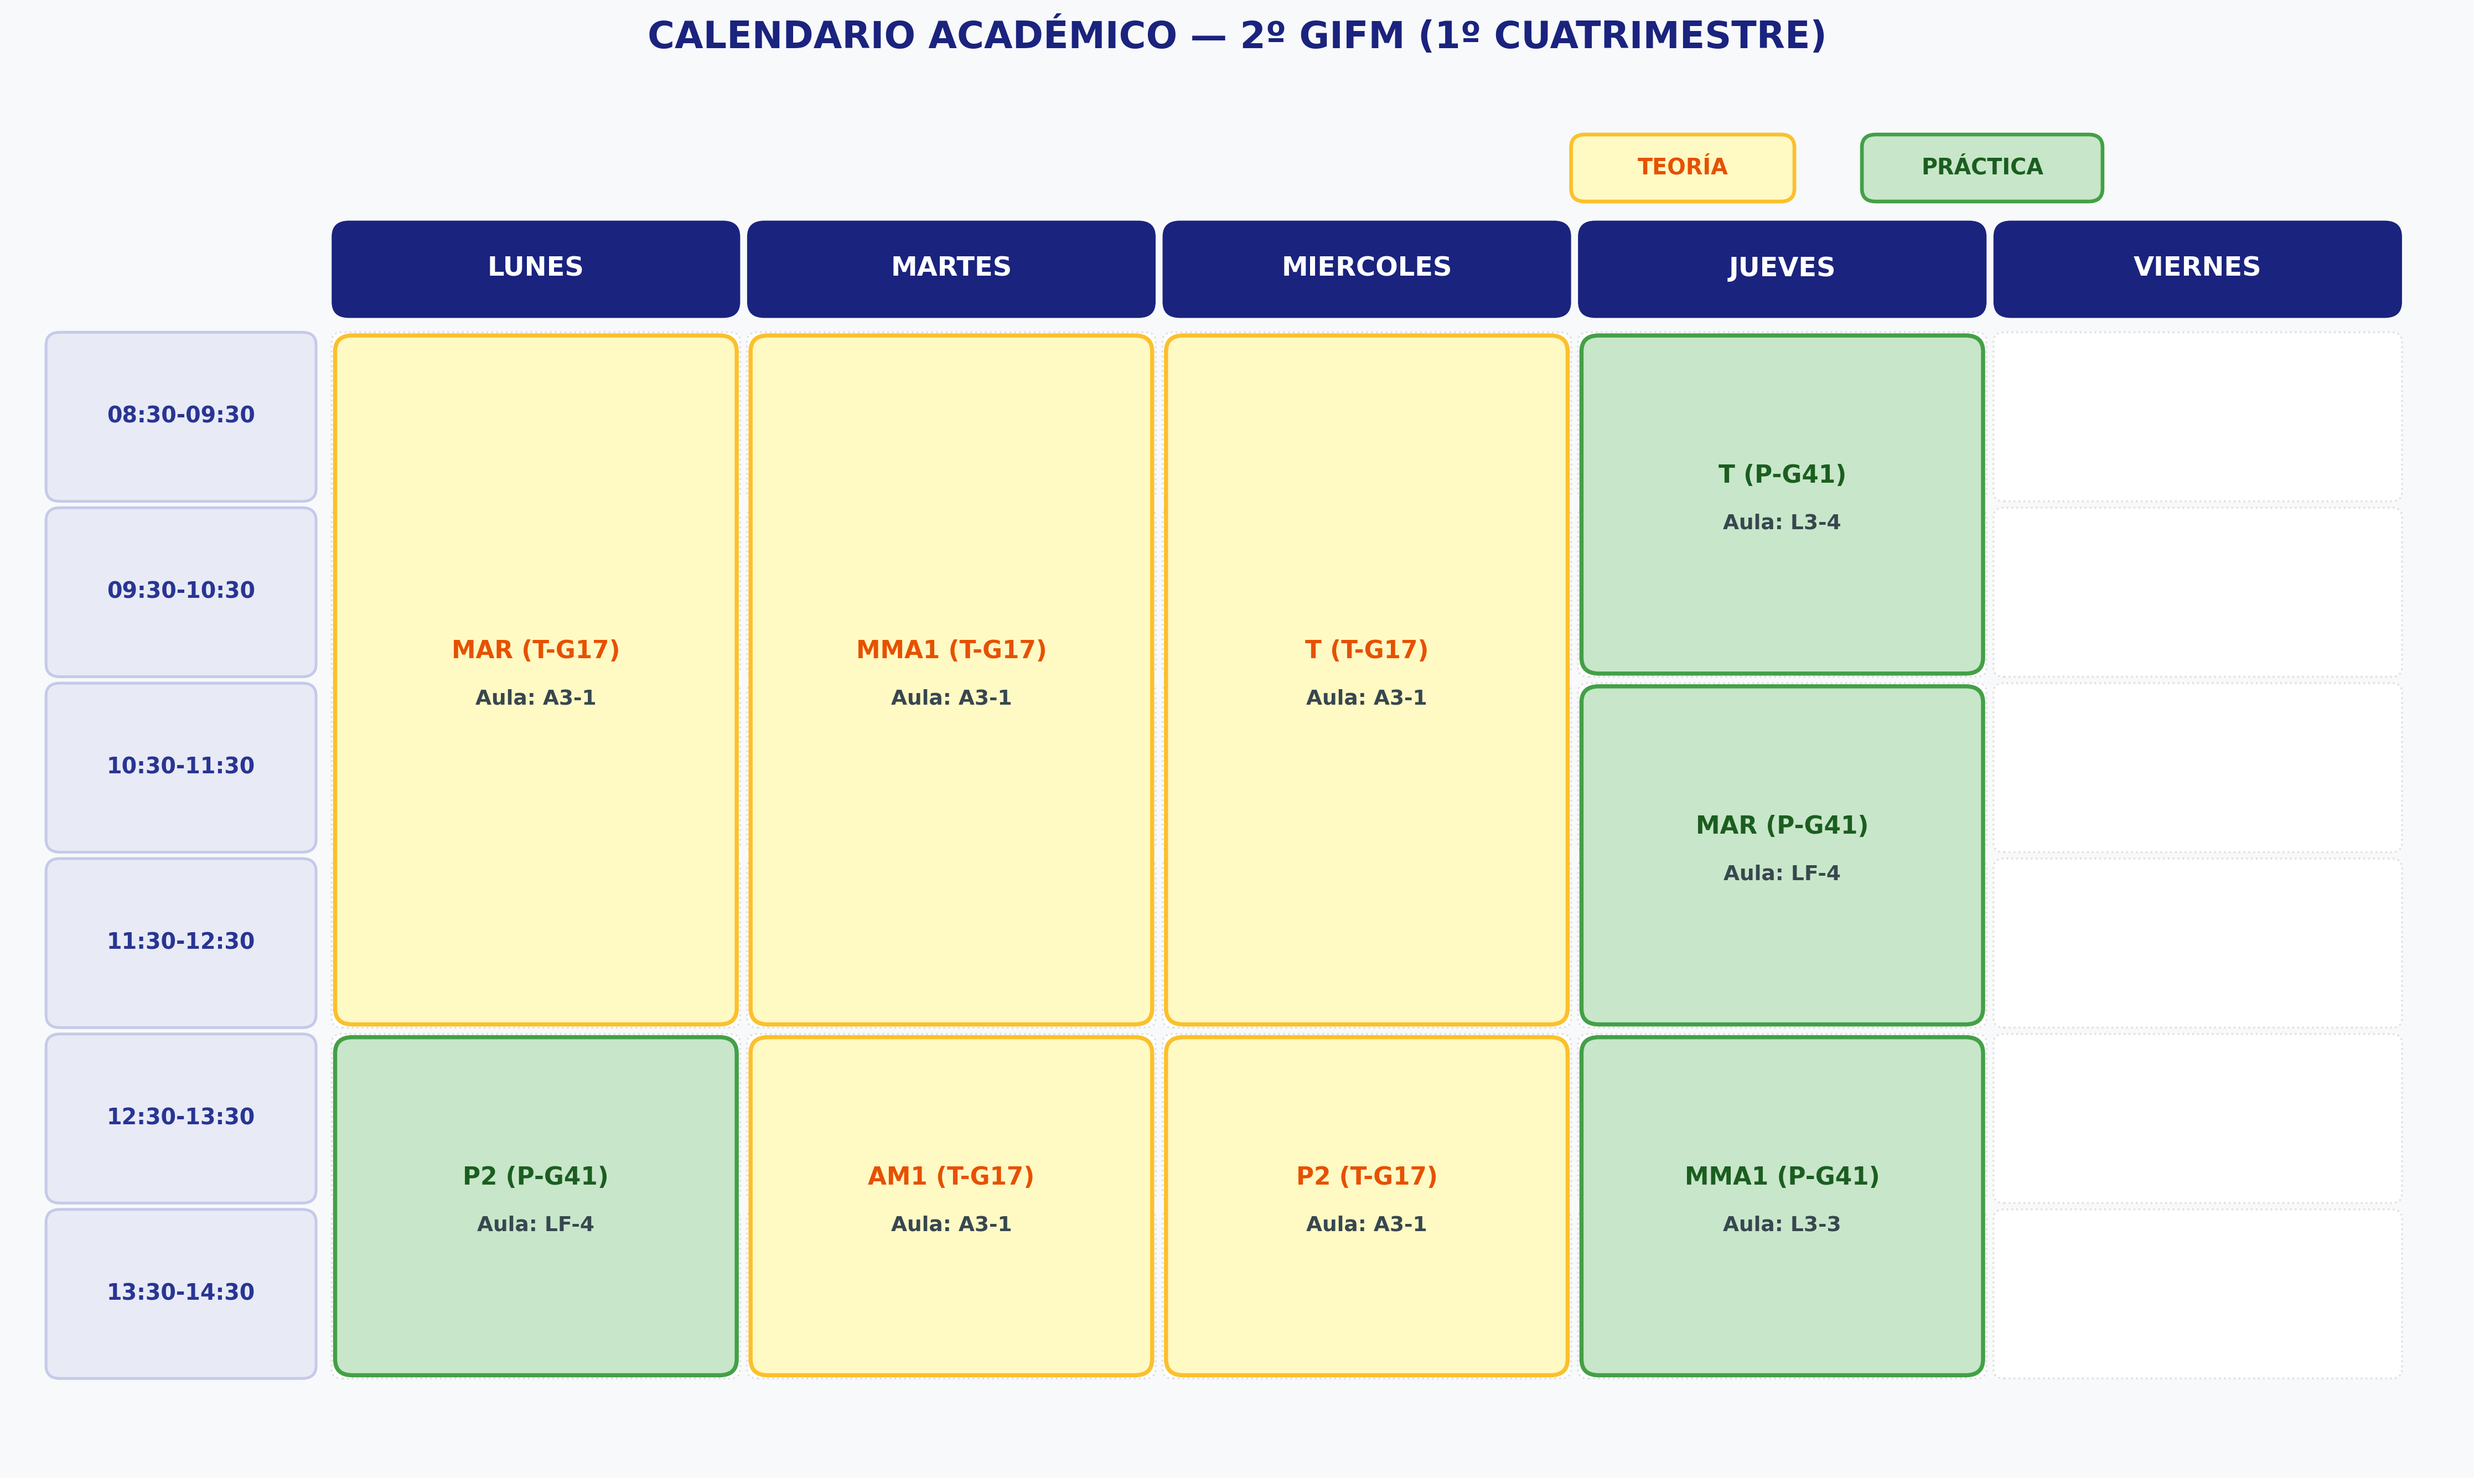
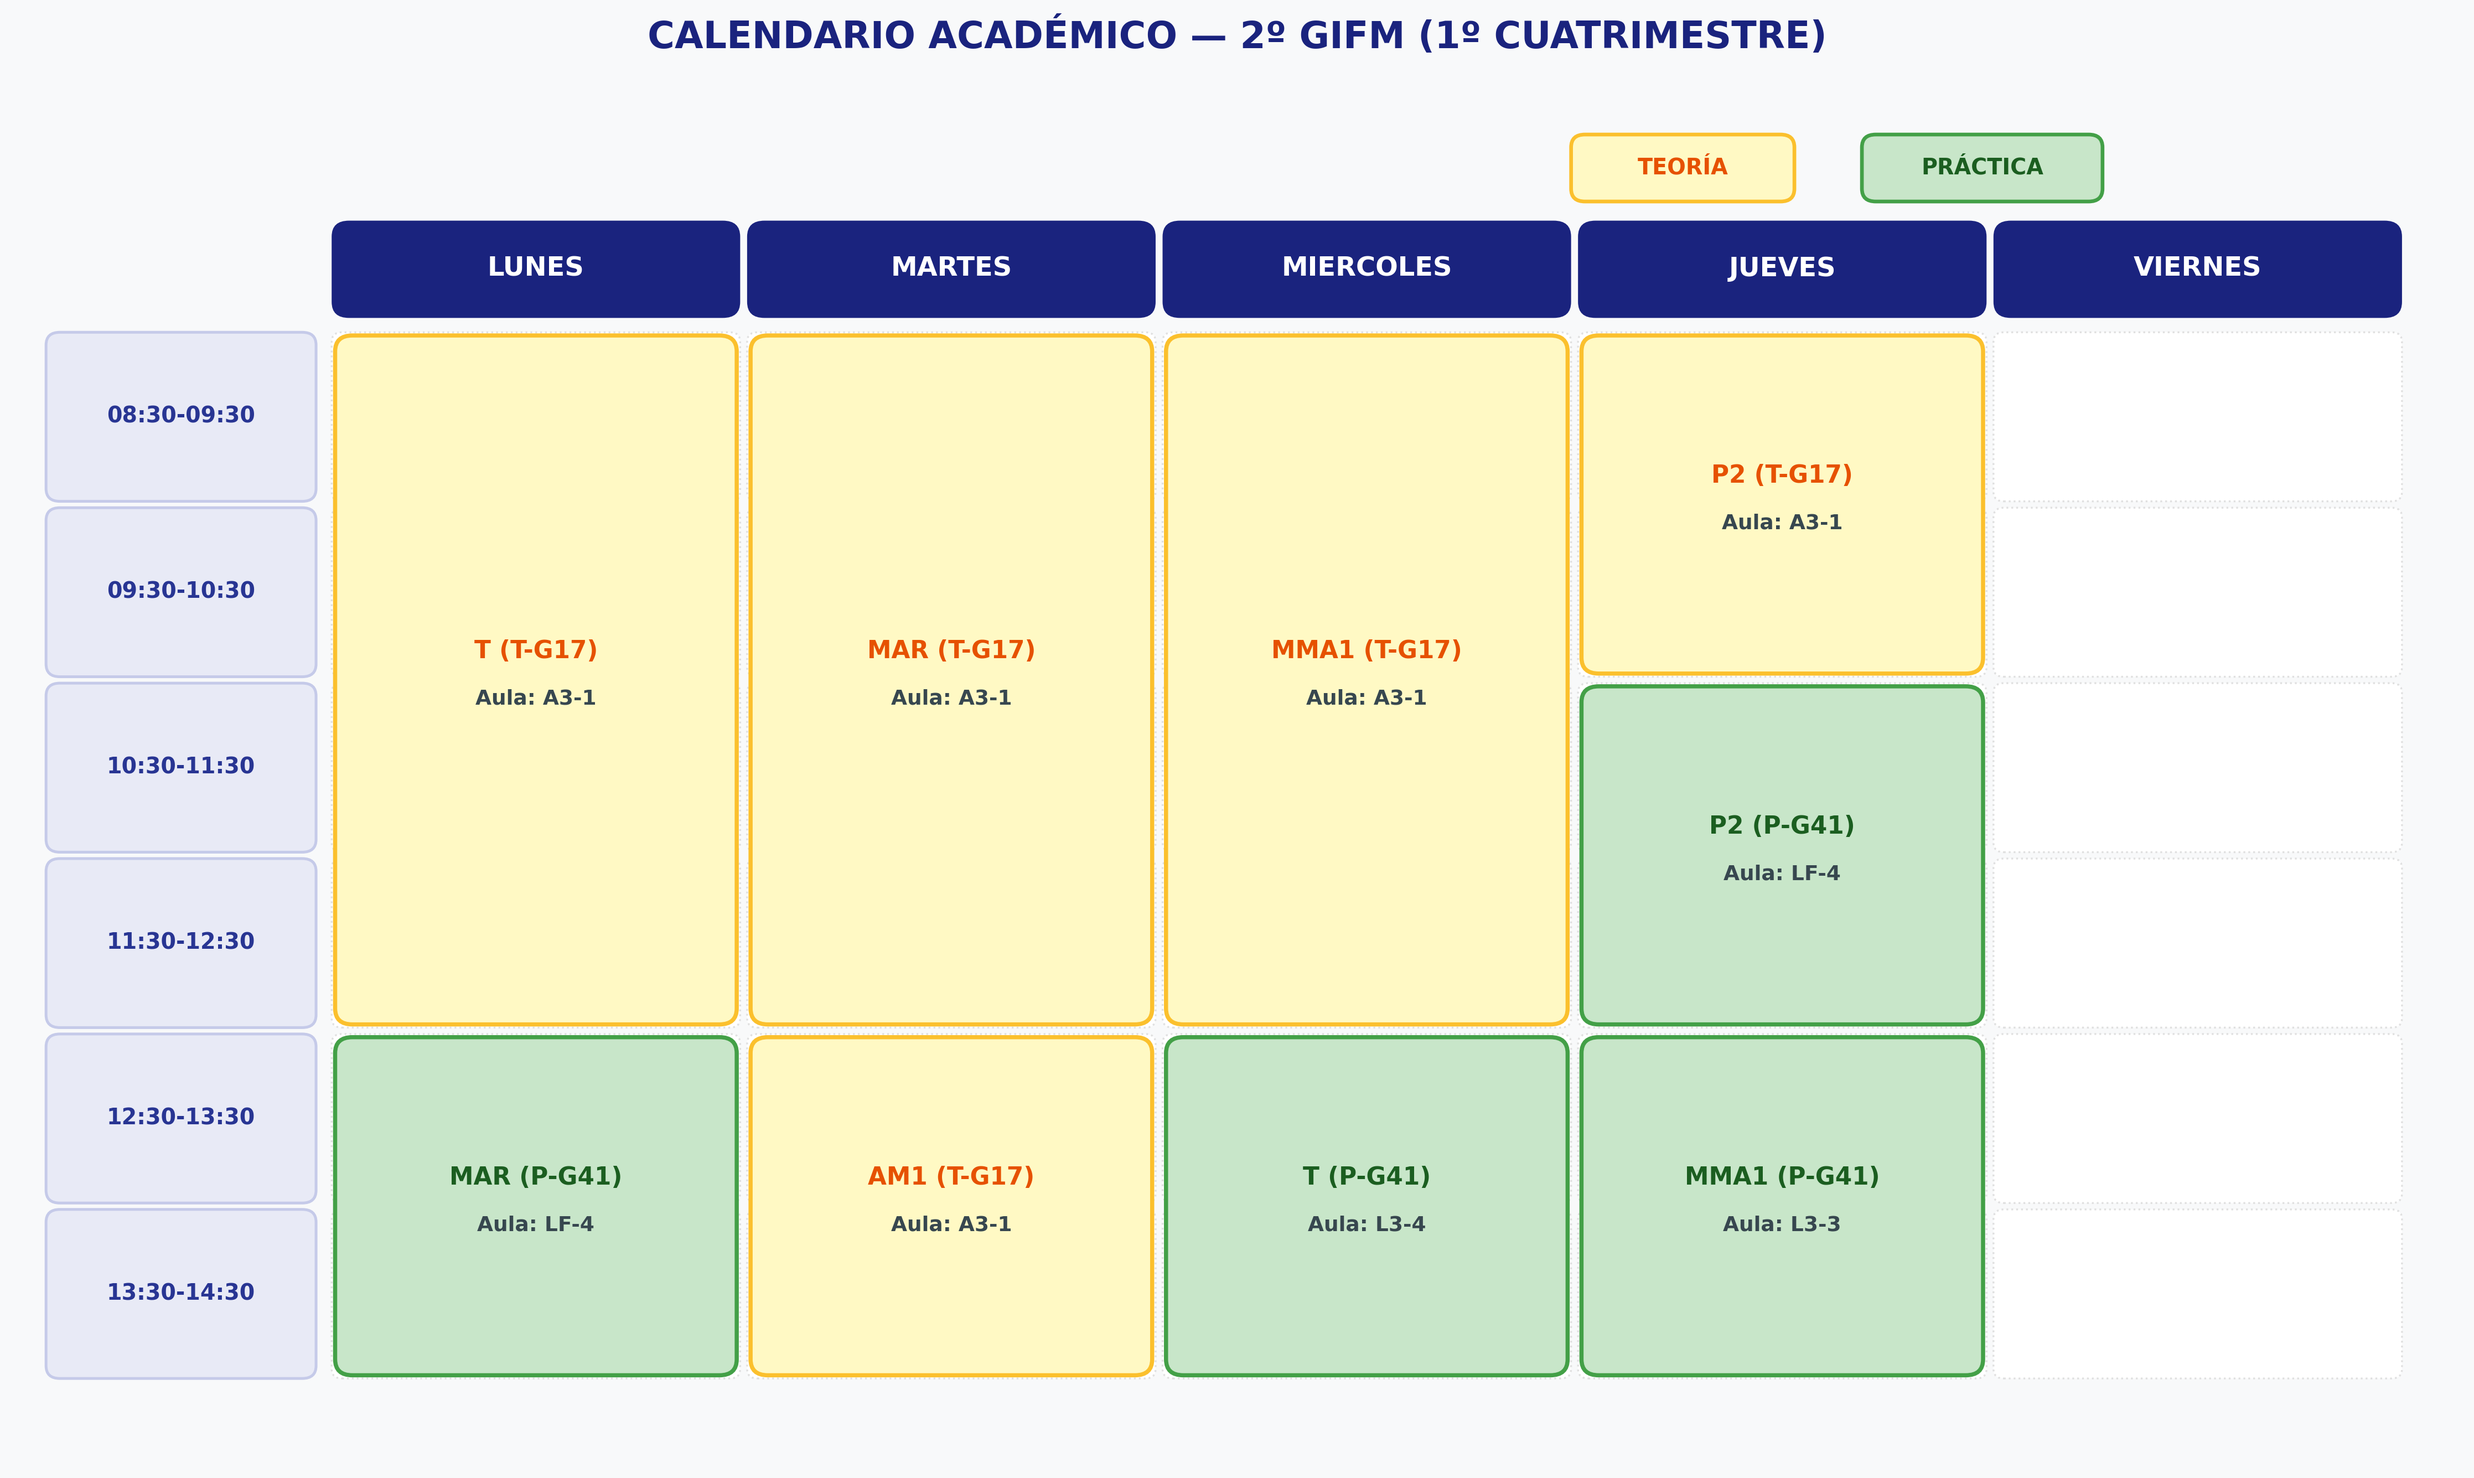
Añadir imagen del horario generado

diff --git a/src/modelo_base.py b/src/modelo_base.py
@@ -16,7 +16,7 @@ from restricciones import (
 from visualizador import exportar_horario_png
 
 
-def modelo_base(curso=4, cuatrimestre=1):
+def modelo_base(curso=4, cuatrimestre=2):
     # 1. Definir el horizonte temporal semanal (30 franjas horarias)
     dias = ["Lunes", "Martes", "Miercoles", "Jueves", "Viernes"]
     horas_por_dia = 6  # 6 franjas por día: de 08:30 a 14:30
@@ -164,7 +164,8 @@ def modelo_base(curso=4, cuatrimestre=1):
 
     # 9. Resolver el modelo
     solver = cp_model.CpSolver()
-    solver.parameters.log_search_progress = True
+    solver.parameters.stop_after_first_solution = True
+    solver.parameters.max_time_in_seconds = 10.0
     status = solver.Solve(model)
 
     # 10. Mostrar e imprimir el horario
@@ -228,7 +229,7 @@ def modelo_base(curso=4, cuatrimestre=1):
         exportar_horario_png(
             df_resultado,
             ruta_salida=str(ruta_salida),
-            abrir_al_terminar=False,
+            abrir_al_terminar=True,
             titulo=titulo
         )
 
@@ -244,4 +245,4 @@ def modelo_base(curso=4, cuatrimestre=1):
 
 if __name__ == "__main__":
     # Cambia estos dos valores para elegir el horario que quieres generar.
-    modelo_base(curso=4, cuatrimestre=1)
+    modelo_base(curso=4, cuatrimestre=2)

diff --git a/src/visualizador.py b/src/visualizador.py
@@ -11,9 +11,9 @@ import pandas as pd
 
 def exportar_horario_png(
     df_resultado,
-    ruta_salida="horario_4GIFM_1er.png",
+    ruta_salida="horario_4GIFM_2do.png",
     abrir_al_terminar=True,
-    titulo="CALENDARIO ACADÉMICO — 4º GIFM (1er SEMESTRE)"
+    titulo="CALENDARIO ACADÉMICO — 4º GIFM (2do SEMESTRE)"
 ):
     """
     Exporta el horario a una imagen PNG de alta resolución,
